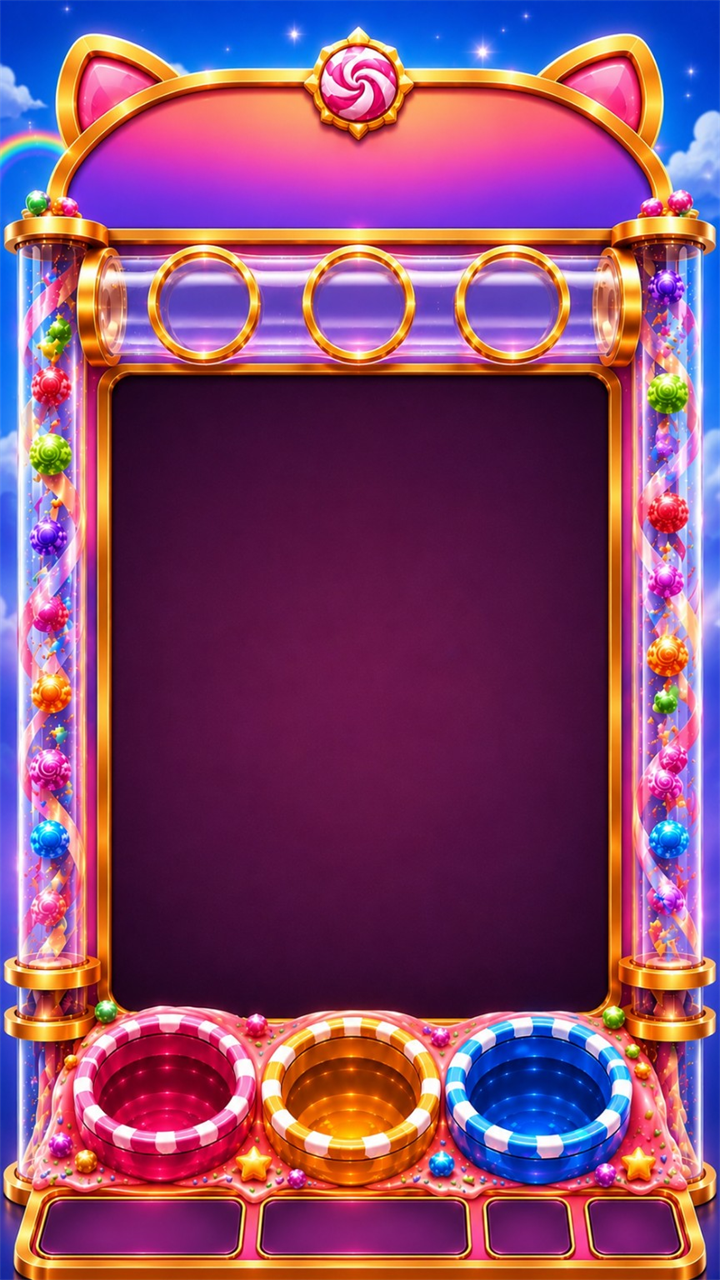
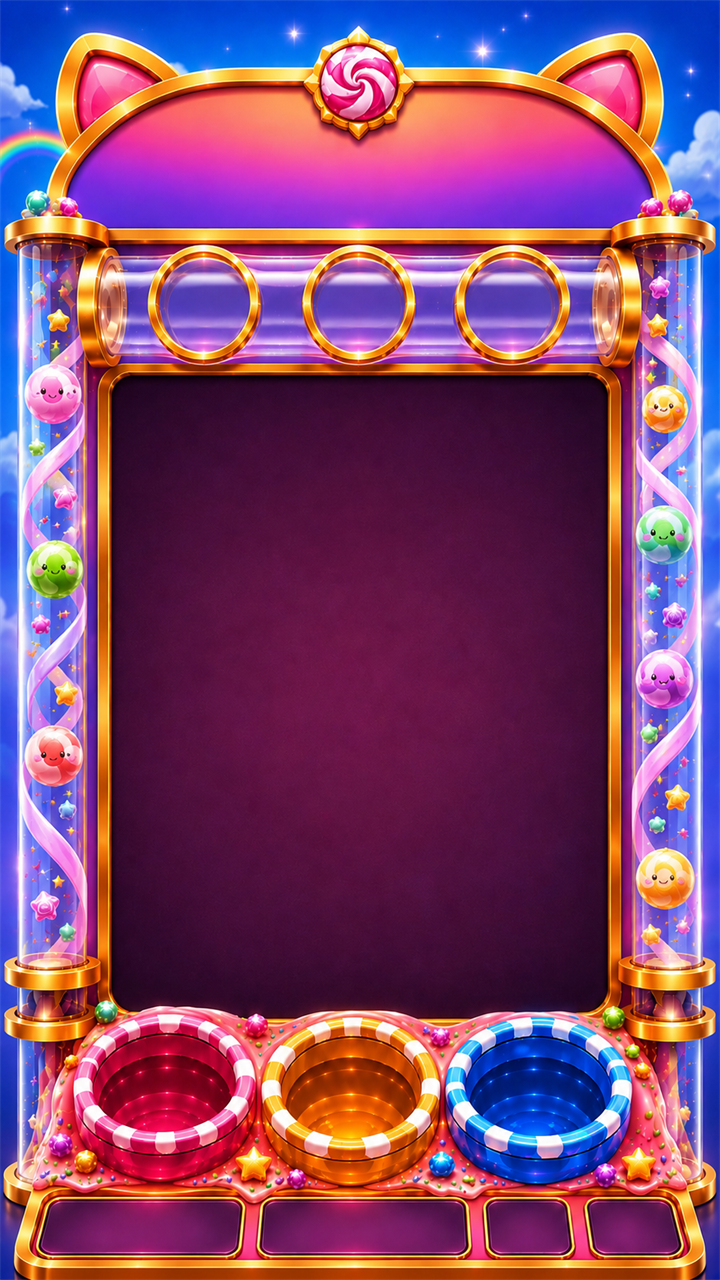
Update machine tune art from 111

Changed region(s): [[0.0, 0.0, 1.0, 1.0]]

diff --git a/index.html b/index.html
@@ -13,7 +13,7 @@
         } catch (error) {}
       })();
     </script>
-    <link rel="stylesheet" href="styles.css?v=machine-full-tune-20260616-000252" />
+    <link rel="stylesheet" href="styles.css?v=machine-art-111-20260616-000759" />
   </head>
   <body>
     <main class="stage">
@@ -144,6 +144,6 @@
       </div>
     </main>
 
-    <script src="script.js?v=machine-full-tune-20260616-000252"></script>
+    <script src="script.js?v=machine-art-111-20260616-000759"></script>
   </body>
 </html>

diff --git a/styles.css b/styles.css
@@ -9262,7 +9262,7 @@ html.ios-performance .phone.machine-candy-cat,
   --climax-wheel-size: 98%;
   --climax-center-line-x: 50%;
   background:
-    url("assets/ui/mobile/candy-machine-candy-cat-mobile.png?v=candy-cat-720-20260615") center / 100% 100% no-repeat,
+    url("assets/ui/mobile/candy-machine-candy-cat-mobile.png?v=candy-cat-720-20260616-000759") center / 100% 100% no-repeat,
     linear-gradient(180deg, #70c7ff, #f84ea0) !important;
 }
 
